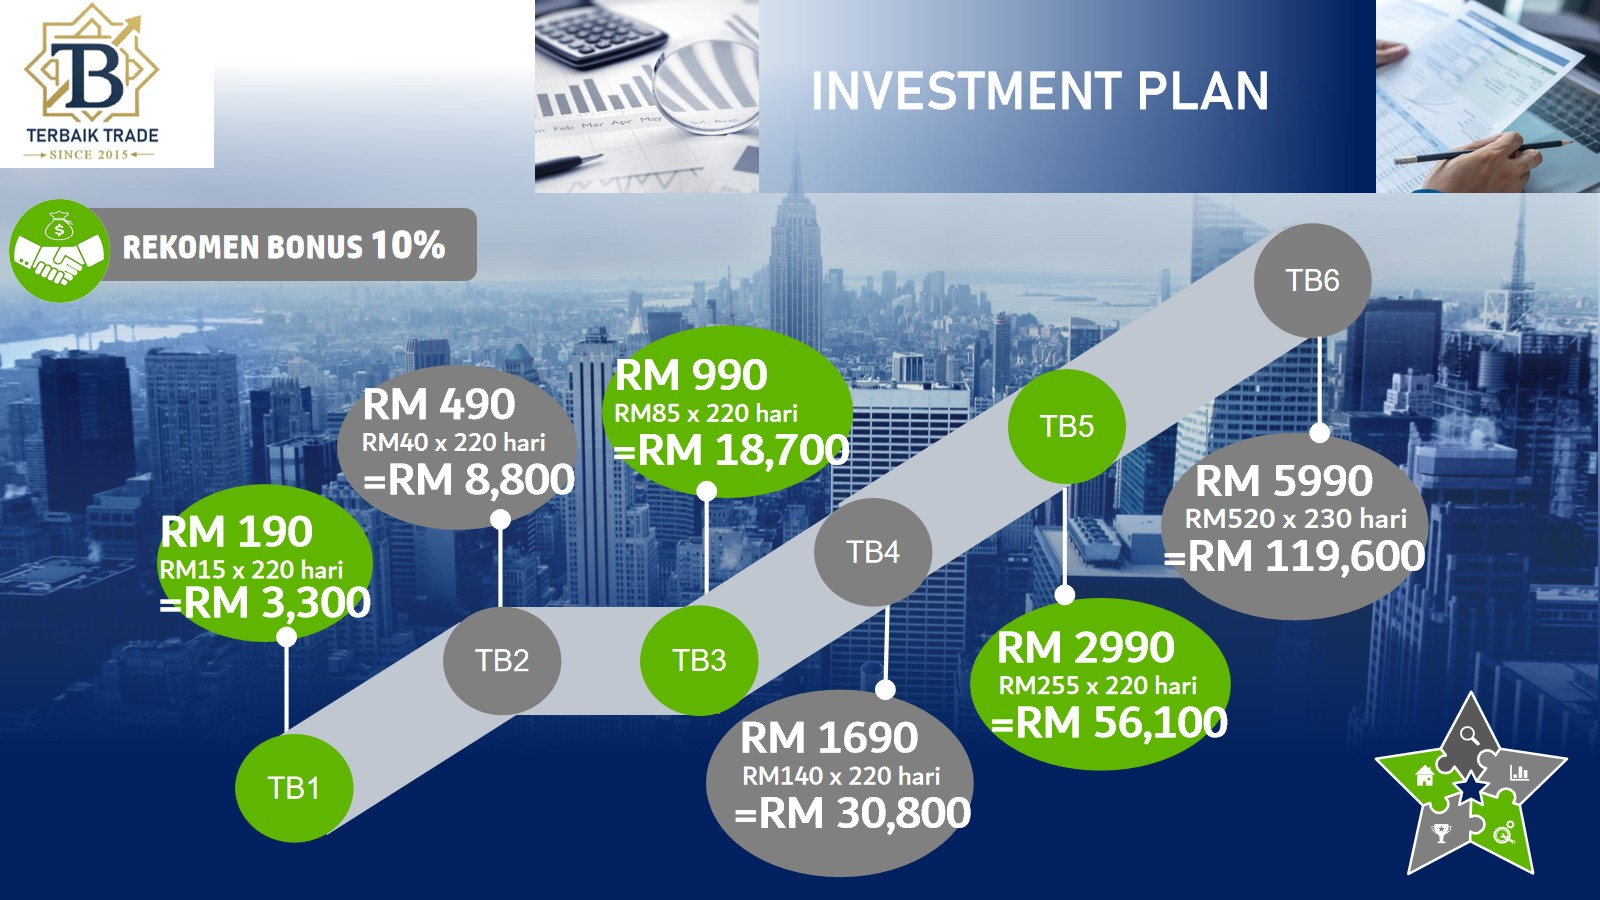
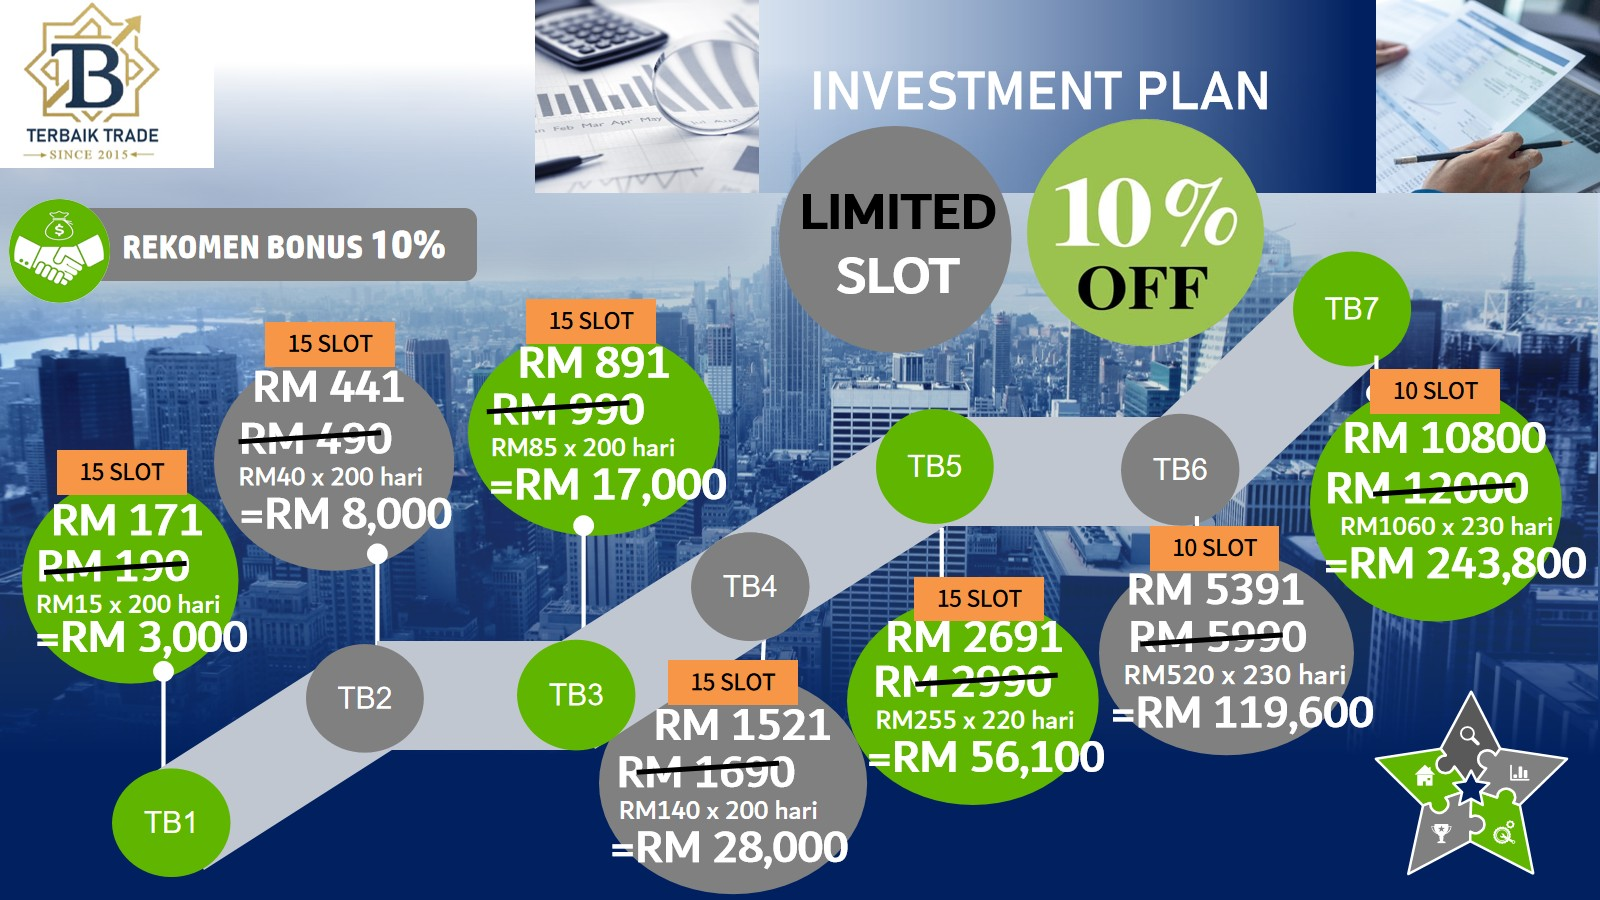
update: added plan TB7

diff --git a/plan.html b/plan.html
@@ -124,6 +124,11 @@
                 RM 520 x 230 hari = RM 119,600
             </div>
             
+            <div class="box center-text">
+                ♻ PLAN RM 12000 <br>
+                RM 1060 x 230 hari = RM 243,800
+            </div>
+            
         </div>
 
     </section>
